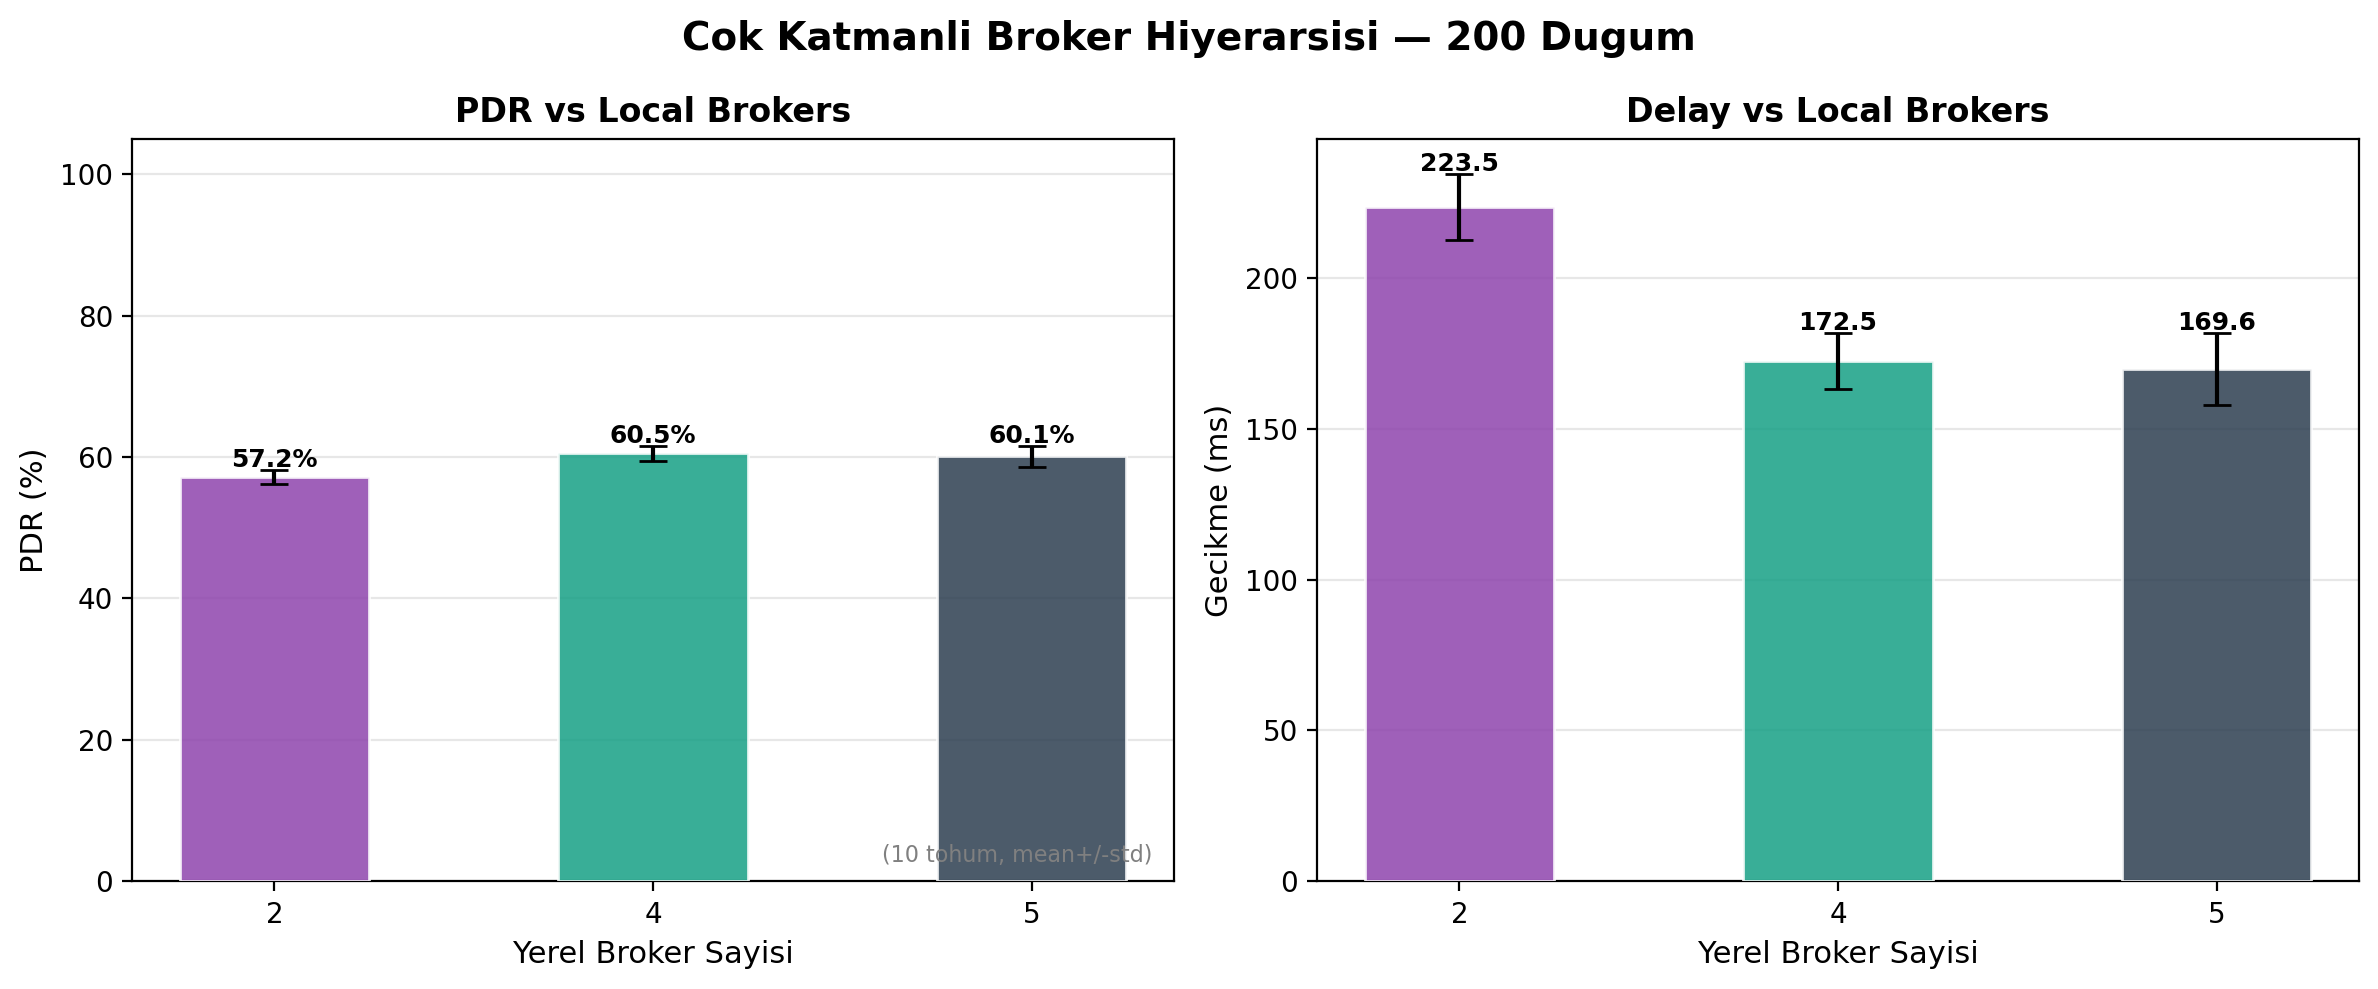
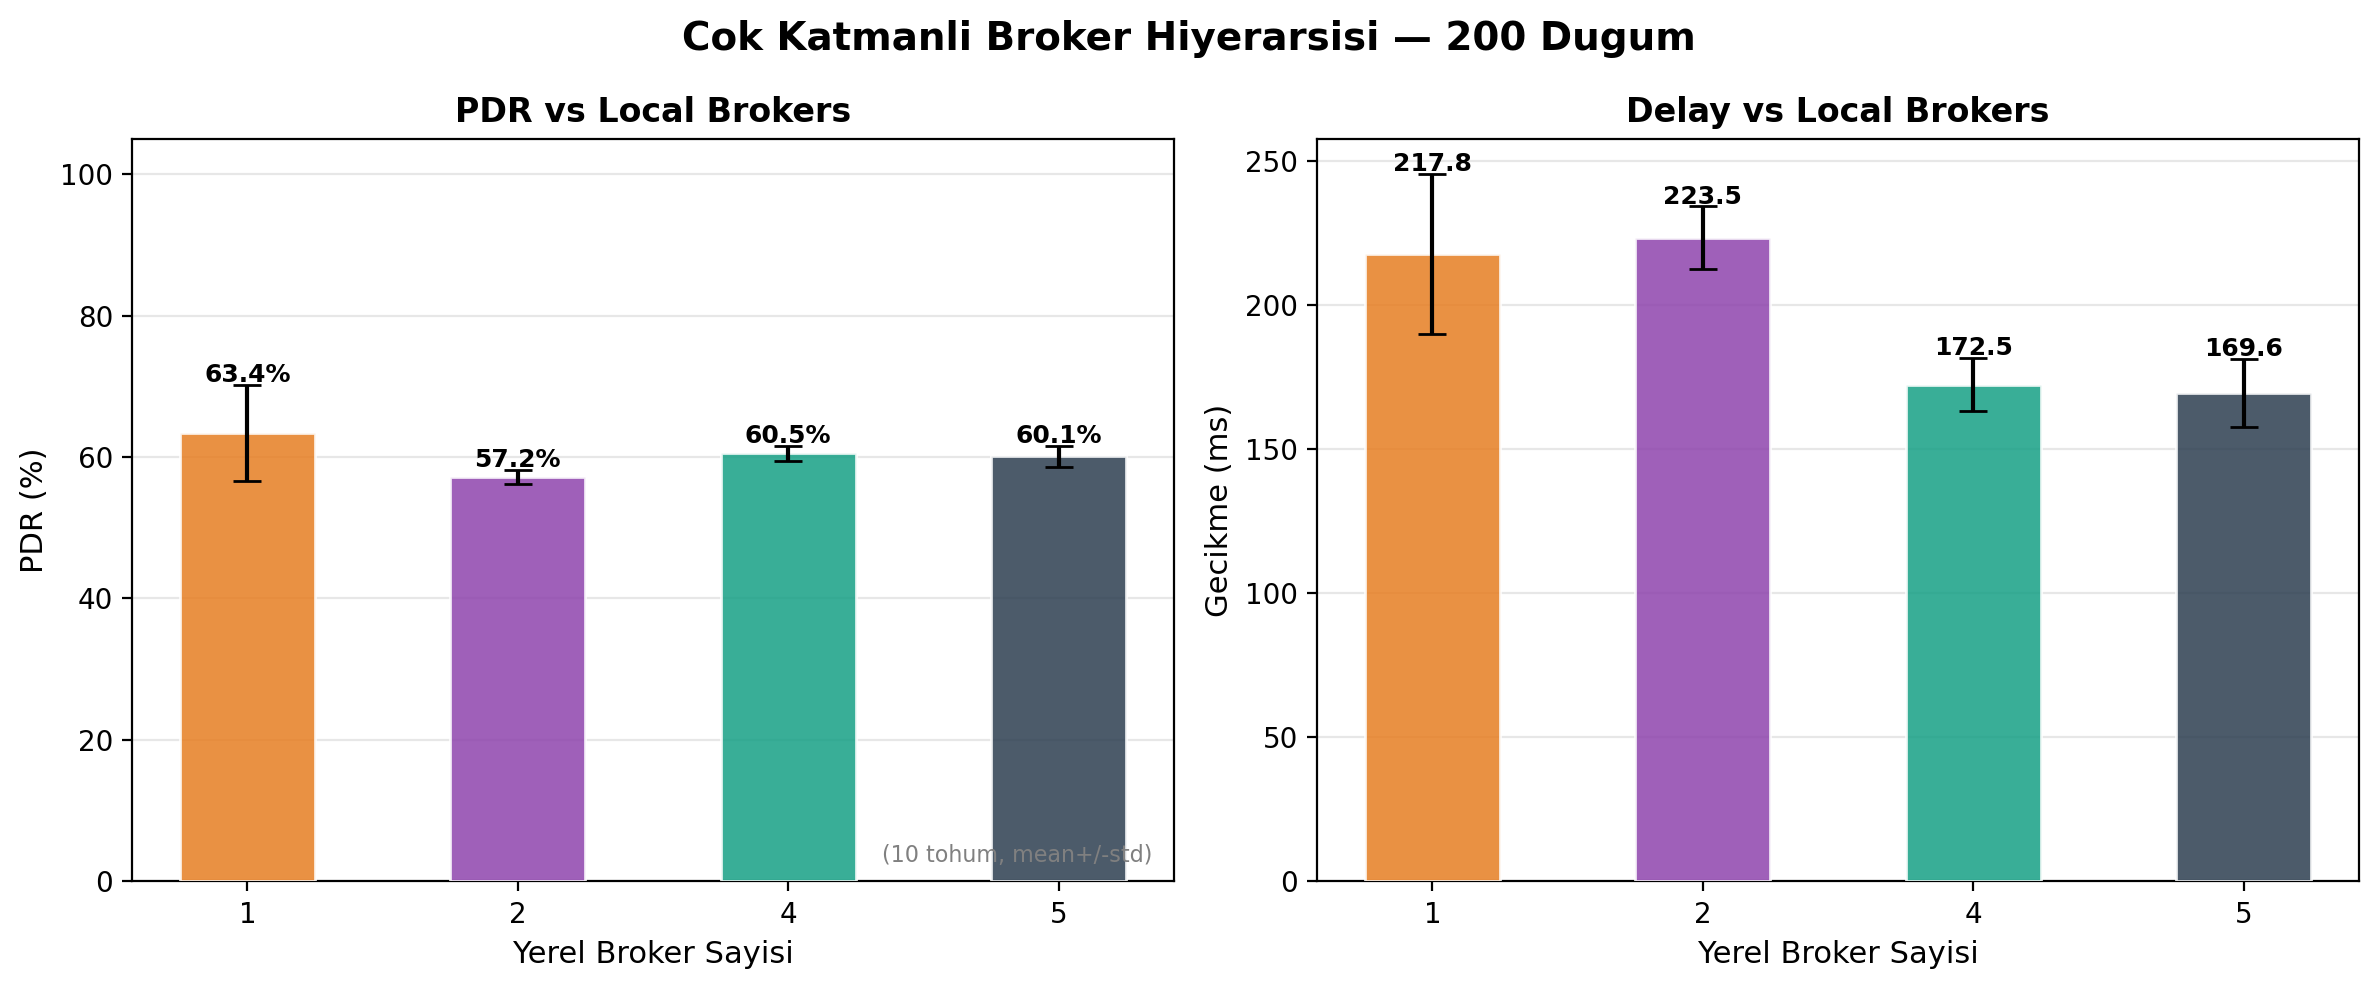
Fix: LB=1 baseline from Set 2, p-values for Set 5, updated hier graphs

diff --git a/scripts/analyze_comparison.py b/scripts/analyze_comparison.py
@@ -90,15 +90,19 @@ def load_set(prefix, nodes, max_seeds, base_dir="experiments/statistical"):
 
 def load_hier_set(lb_values, node=200, max_seeds=MAX_SEEDS):
     """Load multi-broker hierarchy experiments.
-    Returns dict keyed by 'hier_lb{LB}_{node}'.
+    LB=1 baseline uses Set 2 MQTT-SN data (exp2_mqtt_{node}_r*.csv).
     """
     results = {}
     for lb in lb_values:
         key  = f"hier_lb{lb}_{node}"
         runs = []
         for r in range(1, max_seeds + 1):
-            path = f"experiments/hier/exp_hier_lb{lb}_{node}_r{r}.csv"
-            df   = load_csv(path)
+            # LB=1: use Set 2 MQTT-SN as baseline
+            if lb == 1:
+                path = f"experiments/statistical/exp2_mqtt_{node}_r{r}.csv"
+            else:
+                path = f"experiments/hier/exp_hier_lb{lb}_{node}_r{r}.csv"
+            df = load_csv(path)
             if df is not None:
                 m = calc_metrics(df)
                 if m: runs.append(m)
@@ -112,7 +116,7 @@ def load_hier_set(lb_values, node=200, max_seeds=MAX_SEEDS):
                 'Delay_std':       np.std ([r['Delay'] for r in runs], ddof=1) if len(runs)>1 else 0,
                 'lb':              lb,
             }
-            print(f"[OK] {key}: {len(runs)} seeds")
+            print(f"[OK] {key}: {len(runs)} seeds" + (" (from Set 2)" if lb==1 else ""))
     return results
 
 def load_all():
